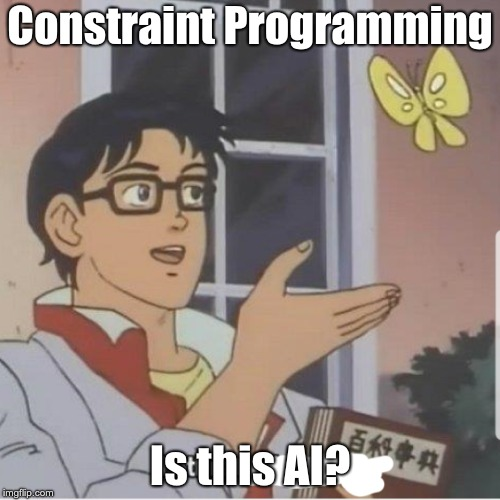
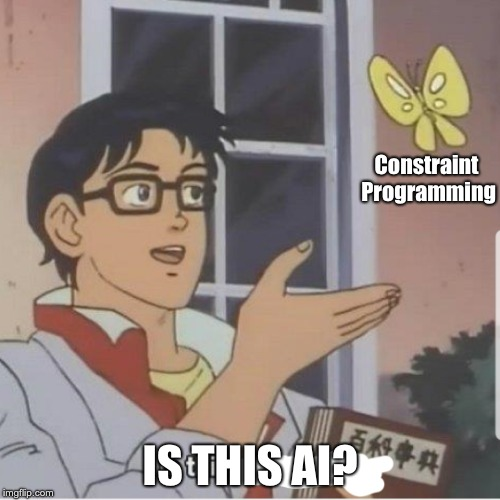
Images and memes

Changed region(s): [[0.0, 0.0, 0.99, 0.12], [0.27, 0.87, 0.72, 0.99], [0.72, 0.3, 1.0, 0.42]]

diff --git a/posts/constraint_programming.md b/posts/constraint_programming.md
@@ -13,6 +13,14 @@ _Wannabe mathematician impostor alert below!!!_
 
 Suppose there are two variables `V1, V2, ..., Vn` which can have possible values from domain `D1, D2,..., Dn` respectively and the relationships between those variables are specified as a set of rules aka Constraints `C1, C2, ..., Cm` where `m > 0 and m = n or m <> n` then a program `P` which finds the appropriate values of `V1, V2, ..., Vn` from respective domains which satisfy the constraints is called a constraint programming system. At the end of successful execution we will have `V1=d1, V2=d2, ..., Vn=dn` where `d1, d2,..., dn` are specific values from domains `D1, D2,..., Dn` respectively.
 
+<img src="..\images\constraint_programming.png">
+
+So is the system intelligent enough to find a solution?
+
+<img src="..\images\is_this_ai.jpg">
+
+# NOOOOOOO!
+
 Now the variables can be of type simple integers to arrays/sets or matrices. Each corresponding value domain will obviously be of the same data type as the variable. 
 
 #### Current state and library choices
